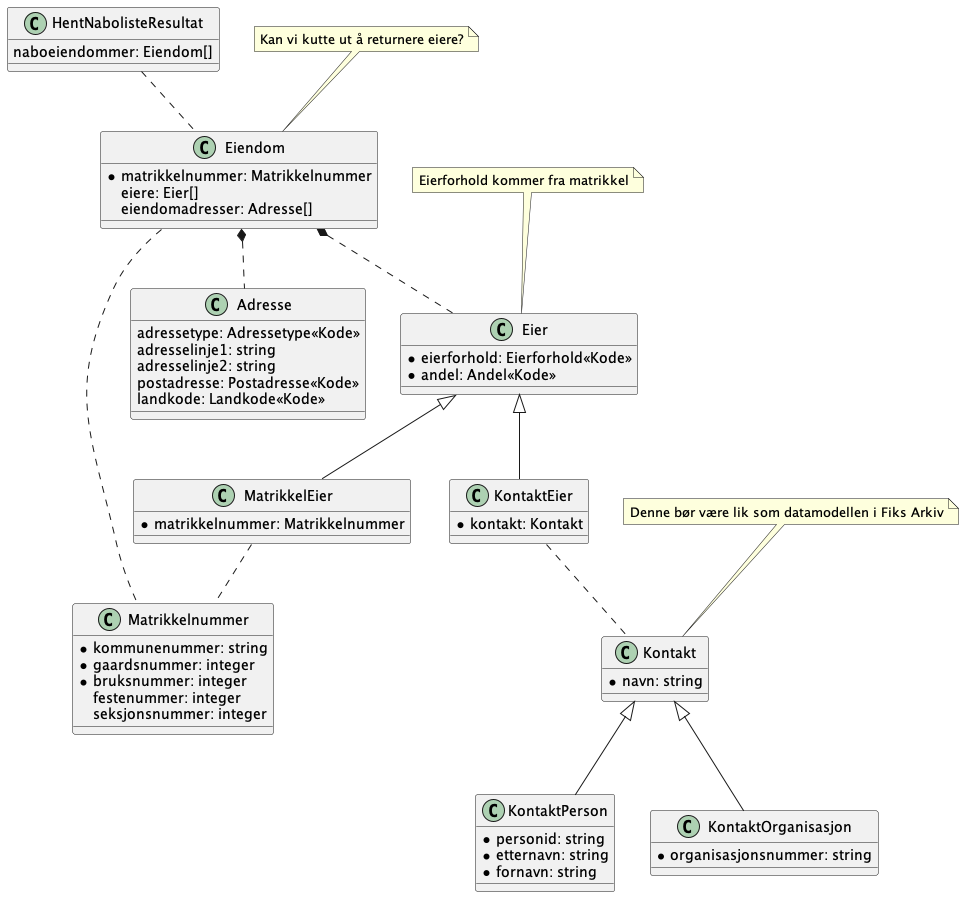
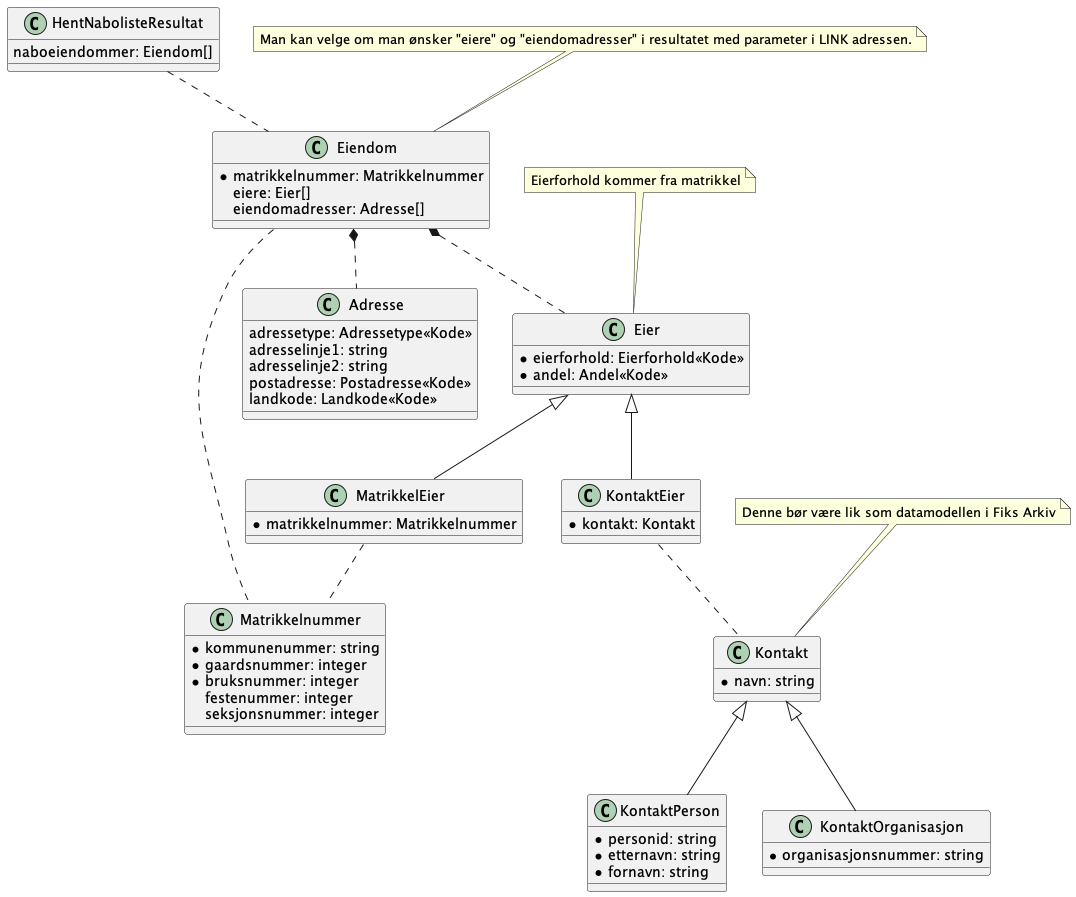
Oppdateringer fra møtet 07.11.24

diff --git a/README.md b/README.md
@@ -37,9 +37,13 @@ System A (f.eks. sakssystemet) benytter funksjonen ved å kalle system B (vanlig
 
 En kan benytte alle Vis-funksjoner for å zoome inn i kartet
 
-Eksempel på LINK
+Man kan velge om man ønsker tilbake `Eier` og `Adresser` i resultatet med parameter i LINK adressen.
 
-http://www.system.no/side.html?funksjon=VisEiendom&kommunenummer=0123&gaardsnummer=1&bruksnummer=2&festenummer=0&seksjonsnummer=1&hint=LagNaboliste&sesjon=A12345678901&link2=http://www.systemB.no/naboliste.html? sesjon=A12345678901
+Eksempel på LINK:
+
+http://www.system.no/side.html?funksjon=VisEiendom&kommunenummer=0123&gaardsnummer=1&bruksnummer=2&festenummer=0&seksjonsnummer=1&hint=LagNaboliste&sesjon=A12345678901&link2=http://www.systemB.no/naboliste.html?sesjon=A12345678901
+
+
 
 #### LagKartutsnitt
 Lager et kartutsnitt som så kan hentes vha `no.ks.fiks.link.v1.innsyn.kartutsnitt.hent` melding.
